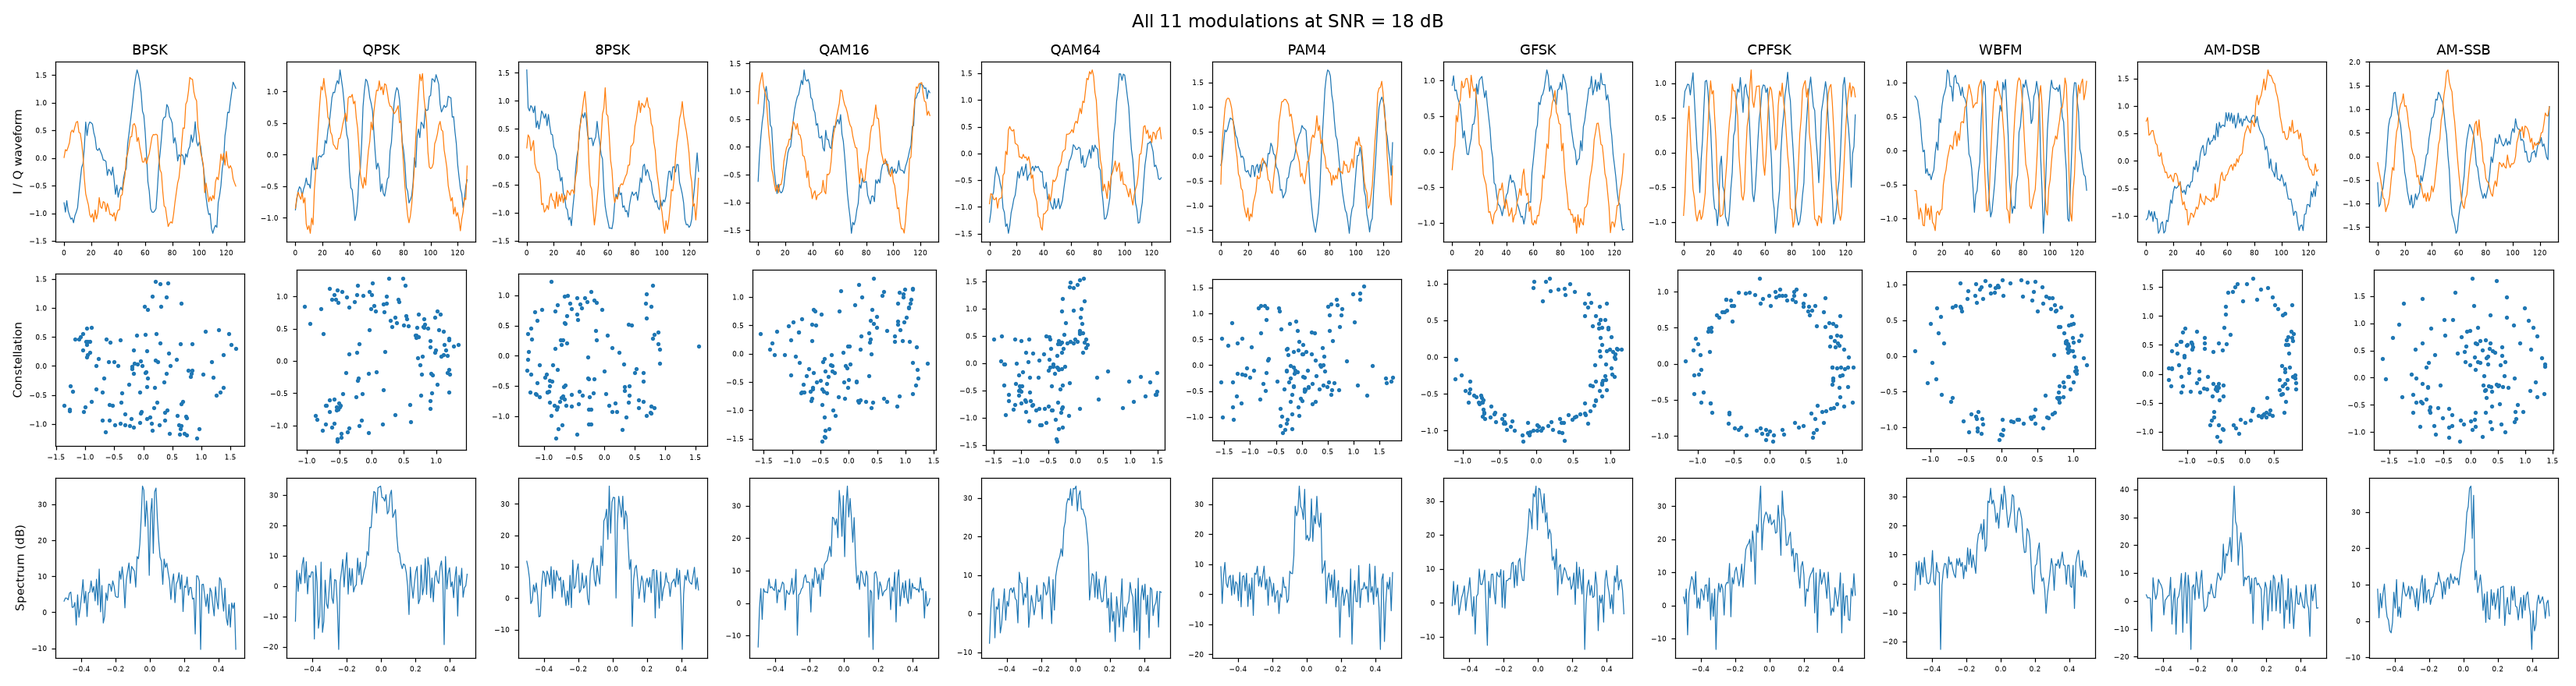
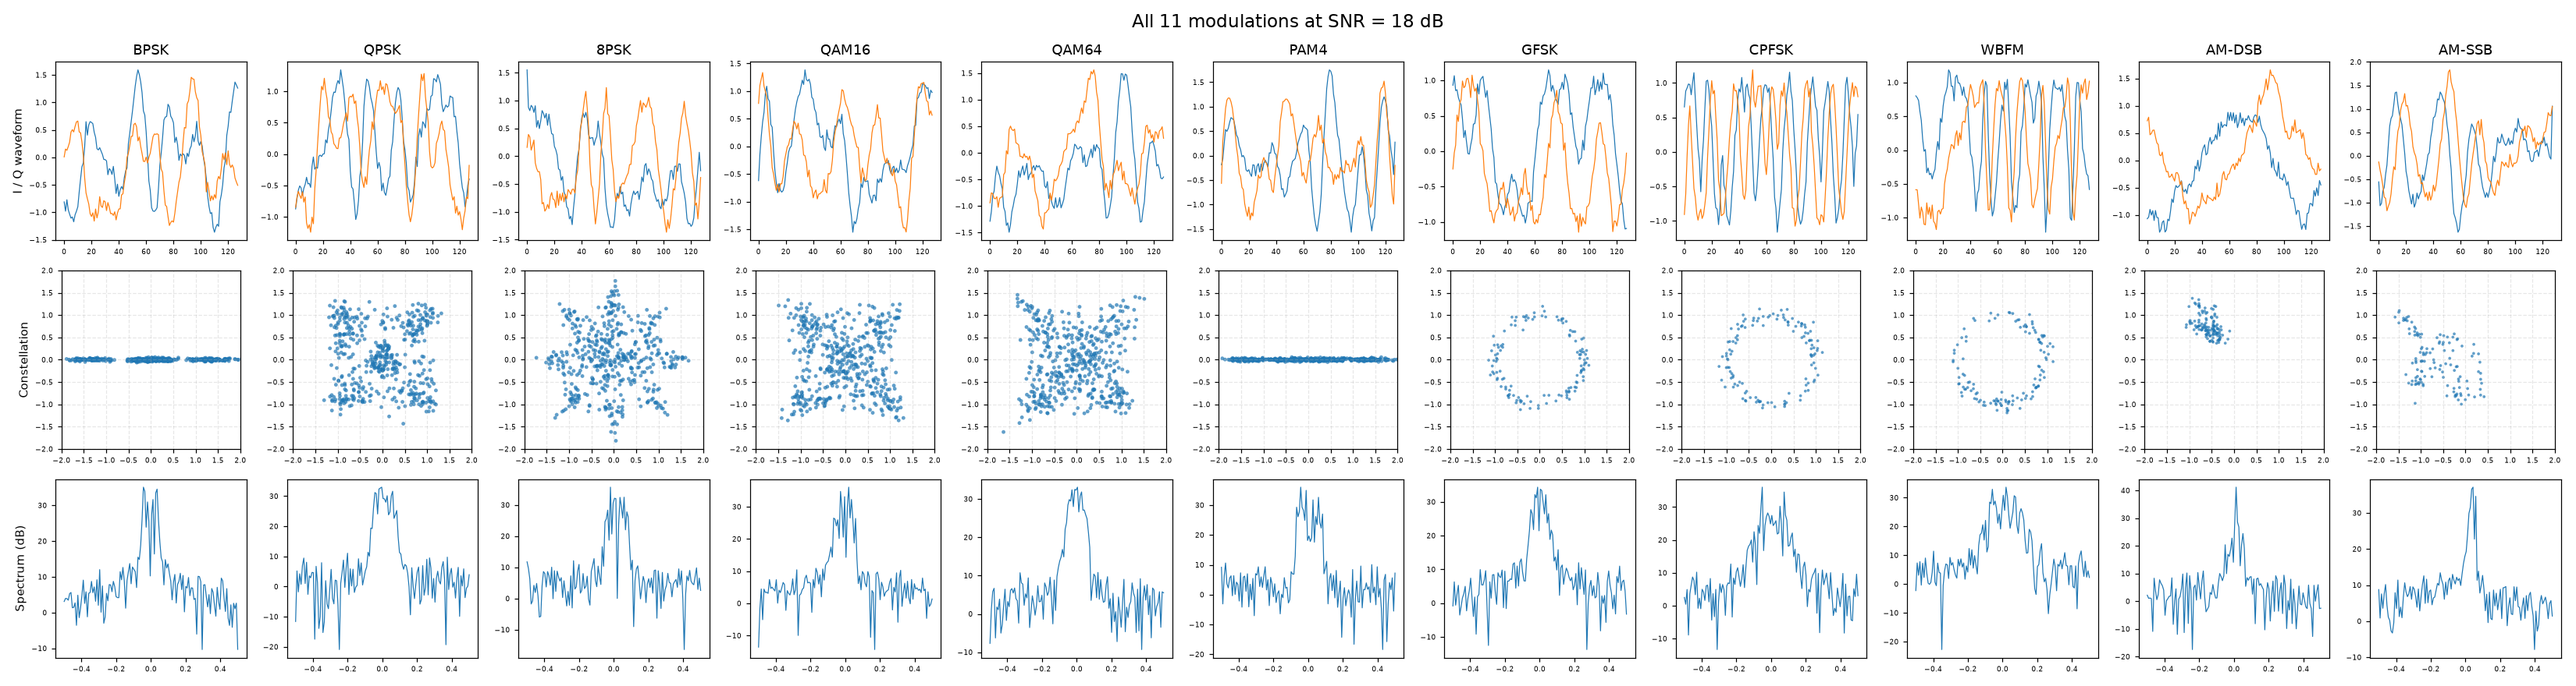
Refactor plotting functions and enhance symbol recovery in validate_and_plot.py

diff --git a/validate_and_plot.py b/validate_and_plot.py
@@ -7,15 +7,94 @@ Writes plots/*.png and data/dataset_statistics.json, and prints PASS/FAIL checks
 This is the 'proof the dataset is ready to use' step.
 """
 import json, os, sys
+from pathlib import Path
 import numpy as np
 import matplotlib
 matplotlib.use("Agg")
 import matplotlib.pyplot as plt
+
 from dataset_loader import (load_dataset, dataset_info, MODULATIONS, ANOMALY_TYPES,
                             HERE, DATA)
 
-PLOTS = os.path.join(HERE, "plots")
-os.makedirs(PLOTS, exist_ok=True)
+PLOTS = Path(HERE).resolve() / "plots"
+PLOTS.mkdir(parents=True, exist_ok=True)
+DATA_DIR = Path(DATA).resolve()
+
+
+# ------------------------------------------------------------------ helpers
+def recover_symbols(z, mod_name, sps=8):
+    """
+    Recovers synchronized symbol points from a single 128-sample baseband frame.
+    Applies timing recovery, blind carrier frequency grid search, and phase lock.
+    """
+    z = z.astype(np.complex128)
+    N = len(z)
+
+    # Analog and continuous-phase modulations naturally show full trajectory rings
+    if mod_name in ("GFSK", "CPFSK", "WBFM", "AM-DSB", "AM-SSB"):
+        if N > 1:
+            diffs = np.angle(z[1:] * np.conj(z[:-1]))
+            z = z * np.exp(-1j * np.median(diffs) * np.arange(N))
+        return z.real, z.imag
+
+    # 1. Optimal timing strobe (maximum envelope variance / eye opening)
+    best_tau = 0
+    max_var = -1.0
+    for tau in range(sps):
+        sub = z[tau::sps]
+        if len(sub) > 0:
+            v = np.var(np.abs(sub))
+            if v > max_var:
+                max_var = v
+                best_tau = tau
+
+    syms = z[best_tau::sps]
+    L = len(syms)
+    if L < 4:
+        return syms.real, syms.imag
+
+    # Modulation power order for carrier stripping
+    if mod_name in ("BPSK", "PAM4"):
+        M = 2
+    elif mod_name in ("QPSK", "QAM16", "QAM64"):
+        M = 4
+    elif mod_name == "8PSK":
+        M = 8
+    else:
+        M = 1
+
+    # 2. Coarse + Fine CFO grid search to freeze rotation
+    freq_candidates = np.linspace(-0.25, 0.25, 201)
+    best_f = 0.0
+    max_coherence = -1.0
+    time_vec = np.arange(L)
+
+    for f in freq_candidates:
+        rot = syms * np.exp(-1j * 2 * np.pi * f * time_vec)
+        coherence = np.abs(np.mean(rot ** M))
+        if coherence > max_coherence:
+            max_coherence = coherence
+            best_f = f
+
+    syms_derot = syms * np.exp(-1j * 2 * np.pi * best_f * time_vec)
+
+    # 3. Phase lock to orthogonal axes
+    mean_vec = np.mean(syms_derot ** M)
+    phi = np.angle(mean_vec) / M
+    if mod_name in ("QPSK", "QAM16", "QAM64"):
+        phi -= np.pi / 4
+    syms_locked = syms_derot * np.exp(-1j * phi)
+
+    # Power scale normalization
+    rms = np.sqrt(np.mean(np.abs(syms_locked)**2))
+    if rms > 0:
+        syms_locked = syms_locked / rms
+
+    # Lock BPSK and PAM4 strictly onto the real line
+    if mod_name in ("BPSK", "PAM4"):
+        syms_locked = syms_locked.real + 0.02 * 1j * np.random.randn(len(syms_locked))
+
+    return syms_locked.real, syms_locked.imag
 
 
 # ------------------------------------------------------------------ validation
@@ -67,7 +146,8 @@ def statistics(all_, splits):
         "frames_per_quality": {n: int((all_["quality"] == i).sum()) for i, n in enumerate(["Poor", "Fair", "Good"])},
         "frames_per_channel": {n: int((all_["channel"] == i).sum()) for i, n in enumerate(["awgn", "fading"])},
     }
-    with open(os.path.join(DATA, "dataset_statistics.json"), "w") as f:
+    stat_file = DATA_DIR / "dataset_statistics.json"
+    with open(stat_file, "w") as f:
         json.dump(stats, f, indent=2)
     return stats
 
@@ -81,7 +161,9 @@ def plot_distributions(all_, stats):
     ax[1].bar(s, c, width=1.6, color="#2F6DB5"); ax[1].set_title("Frames per SNR level (dB)")
     ax[2].bar(stats["frames_per_anomaly_type"].keys(), stats["frames_per_anomaly_type"].values(), color="#C0504D")
     ax[2].set_title("Frames per anomaly type"); ax[2].tick_params(axis="x", rotation=60)
-    plt.tight_layout(); plt.savefig(os.path.join(PLOTS, "01_distributions.png"), dpi=130); plt.close()
+    plt.tight_layout()
+    plt.savefig(str(PLOTS / "01_distributions.png"), dpi=130)
+    plt.close("all")
 
 
 def _pick(all_, mod=None, atype=0, snr=None):
@@ -95,16 +177,57 @@ def _pick(all_, mod=None, atype=0, snr=None):
 def plot_class_gallery(all_, snr=18):
     """Waveform / constellation / spectrum for every modulation (clean, high SNR)."""
     fig, ax = plt.subplots(3, 11, figsize=(30, 8))
+    digital_mods = {"BPSK", "QPSK", "8PSK", "QAM16", "QAM64", "PAM4"}
+
     for i, name in enumerate(MODULATIONS):
-        x = _pick(all_, mod=i, snr=snr); z = x[0] + 1j * x[1]
-        ax[0, i].plot(x[0], lw=.8); ax[0, i].plot(x[1], lw=.8); ax[0, i].set_title(name, fontsize=12)
-        ax[1, i].scatter(x[0], x[1], s=6); ax[1, i].set_aspect("equal")
+        x = _pick(all_, mod=i, atype=0, snr=snr)
+        z = x[0] + 1j * x[1]
+
+        # Row 0: Waveform
+        ax[0, i].plot(x[0], lw=0.8)
+        ax[0, i].plot(x[1], lw=0.8)
+        ax[0, i].set_title(name, fontsize=12)
+
+        # Row 1: Constellation
+        if name in digital_mods:
+            # Use AWGN channel (channel == 0) frames at SNR=18 to avoid multipath smearing in plots
+            mask = (all_["anomaly_type"] == 0) & (all_["mod"] == i) & (all_["snr"] == snr)
+            if "channel" in all_ and np.any(mask & (all_["channel"] == 0)):
+                mask &= (all_["channel"] == 0)
+
+            matching_idx = np.where(mask)[0][:30]
+            i_pts, q_pts = [], []
+            for idx in matching_idx:
+                raw_frame = all_["X"][idx]
+                z_raw = raw_frame[0] + 1j * raw_frame[1]
+                xi, xq = recover_symbols(z_raw, name, sps=8)
+                i_pts.extend(xi)
+                q_pts.extend(xq)
+
+            ax[1, i].scatter(i_pts, q_pts, s=10, alpha=0.7, color="#1f77b4", edgecolors="none")
+        else:
+            xi, xq = recover_symbols(z, name, sps=8)
+            ax[1, i].scatter(xi, xq, s=6, alpha=0.7, color="#1f77b4", edgecolors="none")
+
+        ax[1, i].set_aspect("equal")
+        ax[1, i].set_xlim([-2.0, 2.0])
+        ax[1, i].set_ylim([-2.0, 2.0])
+        ax[1, i].grid(True, linestyle="--", alpha=0.3)
+
+        # Row 2: Spectrum
         sp = 20 * np.log10(np.abs(np.fft.fftshift(np.fft.fft(z))) + 1e-9)
-        ax[2, i].plot(np.linspace(-.5, .5, 128), sp, lw=.8)
-        for r in range(3): ax[r, i].tick_params(labelsize=6)
-    ax[0, 0].set_ylabel("I / Q waveform"); ax[1, 0].set_ylabel("Constellation"); ax[2, 0].set_ylabel("Spectrum (dB)")
+        ax[2, i].plot(np.linspace(-0.5, 0.5, 128), sp, lw=0.8)
+
+        for r in range(3):
+            ax[r, i].tick_params(labelsize=6)
+
+    ax[0, 0].set_ylabel("I / Q waveform")
+    ax[1, 0].set_ylabel("Constellation")
+    ax[2, 0].set_ylabel("Spectrum (dB)")
     plt.suptitle(f"All 11 modulations at SNR = {snr} dB", fontsize=15)
-    plt.tight_layout(); plt.savefig(os.path.join(PLOTS, "02_modulation_gallery.png"), dpi=110); plt.close()
+    plt.tight_layout()
+    plt.savefig(str(PLOTS / "02_modulation_gallery.png"), dpi=110)
+    plt.close("all")
 
 
 def plot_snr_effect(all_):
@@ -112,9 +235,29 @@ def plot_snr_effect(all_):
     levels = [-20, -10, 0, 10, 18]
     fig, ax = plt.subplots(1, 5, figsize=(18, 3.6))
     for a, s in zip(ax, levels):
-        x = _pick(all_, mod=1, snr=s)
-        a.scatter(x[0], x[1], s=8); a.set_aspect("equal"); a.set_title(f"QPSK @ {s} dB")
-    plt.tight_layout(); plt.savefig(os.path.join(PLOTS, "03_snr_effect_qpsk.png"), dpi=130); plt.close()
+        mask = (all_["anomaly_type"] == 0) & (all_["mod"] == 1) & (all_["snr"] == s)
+        if "channel" in all_ and np.any(mask & (all_["channel"] == 0)):
+            mask &= (all_["channel"] == 0)
+
+        matching_idx = np.where(mask)[0][:20]
+        i_pts, q_pts = [], []
+        for idx in matching_idx:
+            raw_frame = all_["X"][idx]
+            z_raw = raw_frame[0] + 1j * raw_frame[1]
+            xi, xq = recover_symbols(z_raw, "QPSK", sps=8)
+            i_pts.extend(xi)
+            q_pts.extend(xq)
+
+        a.scatter(i_pts, q_pts, s=10, alpha=0.6, color="#1f77b4", edgecolors="none")
+        a.set_aspect("equal")
+        a.set_xlim([-2.0, 2.0])
+        a.set_ylim([-2.0, 2.0])
+        a.grid(True, linestyle="--", alpha=0.3)
+        a.set_title(f"QPSK @ {s} dB")
+
+    plt.tight_layout()
+    plt.savefig(str(PLOTS / "03_snr_effect_qpsk.png"), dpi=130)
+    plt.close("all")
 
 
 def plot_anomalies(all_):
@@ -122,11 +265,13 @@ def plot_anomalies(all_):
     for j, t in enumerate(range(1, 6)):
         idx = np.where((all_["anomaly_type"] == t) & (all_["snr"] >= 10))[0][0]
         x = all_["X"][idx]; z = x[0] + 1j * x[1]
-        ax[0, j].plot(x[0], lw=.8); ax[0, j].plot(x[1], lw=.8); ax[0, j].set_title(ANOMALY_TYPES[t])
-        ax[1, j].plot(np.linspace(-.5, .5, 128), 20 * np.log10(np.abs(np.fft.fftshift(np.fft.fft(z))) + 1e-9), lw=.8)
+        ax[0, j].plot(x[0], lw=0.8); ax[0, j].plot(x[1], lw=0.8); ax[0, j].set_title(ANOMALY_TYPES[t])
+        ax[1, j].plot(np.linspace(-0.5, 0.5, 128), 20 * np.log10(np.abs(np.fft.fftshift(np.fft.fft(z))) + 1e-9), lw=0.8)
     ax[0, 0].set_ylabel("I / Q waveform"); ax[1, 0].set_ylabel("Spectrum (dB)")
     plt.suptitle("Anomaly types (SNR >= 10 dB)", fontsize=14)
-    plt.tight_layout(); plt.savefig(os.path.join(PLOTS, "04_anomaly_examples.png"), dpi=120); plt.close()
+    plt.tight_layout()
+    plt.savefig(str(PLOTS / "04_anomaly_examples.png"), dpi=120)
+    plt.close("all")
 
 
 def plot_feature_check(all_):
@@ -134,25 +279,31 @@ def plot_feature_check(all_):
     nm = (all_["anomaly"] == 0) & (all_["channel"] == 0)
     X = all_["X"][nm]; snr = all_["snr"][nm]; mod = all_["mod"][nm]
     amp = np.sqrt(X[:, 0] ** 2 + X[:, 1] ** 2)
-    kurt = (amp ** 4).mean(1) / (amp ** 2).mean(1) ** 2           # amplitude kurtosis
+    kurt = (amp ** 4).mean(1) / (amp ** 2).mean(1) ** 2
     fig, ax = plt.subplots(1, 2, figsize=(13, 4))
     for i, name in enumerate(MODULATIONS):
         sel = (mod == i) & (snr == 18)
-        ax[0].hist(kurt[sel], bins=30, alpha=.5, label=name)
+        ax[0].hist(kurt[sel], bins=30, alpha=0.5, label=name)
     ax[0].set_title("Amplitude kurtosis @ 18 dB (class-dependent -> features carry info)")
     ax[0].legend(fontsize=6, ncol=2)
     mean_k = [kurt[(mod == 1) & (snr == s)].mean() for s in sorted(set(snr))]
     ax[1].plot(sorted(set(snr)), mean_k, "o-"); ax[1].set_title("QPSK amplitude kurtosis vs labelled SNR")
     ax[1].set_xlabel("SNR (dB)")
-    plt.tight_layout(); plt.savefig(os.path.join(PLOTS, "05_feature_sanity_check.png"), dpi=120); plt.close()
+    plt.tight_layout()
+    plt.savefig(str(PLOTS / "05_feature_sanity_check.png"), dpi=120)
+    plt.close("all")
 
 
 if __name__ == "__main__":
     all_ = load_dataset("all")
     checks, splits = validate(all_)
     stats = statistics(all_, splits)
-    plot_distributions(all_, stats); plot_class_gallery(all_); plot_snr_effect(all_)
-    plot_anomalies(all_); plot_feature_check(all_)
-    print("\nSTATISTICS"); print(json.dumps(stats, indent=2))
+    plot_distributions(all_, stats)
+    plot_class_gallery(all_)
+    plot_snr_effect(all_)
+    plot_anomalies(all_)
+    plot_feature_check(all_)
+    print("\nSTATISTICS")
+    print(json.dumps(stats, indent=2))
     print(f"\nPlots saved in {PLOTS}")
     sys.exit(0 if all(ok for _, ok in checks) else 1)
